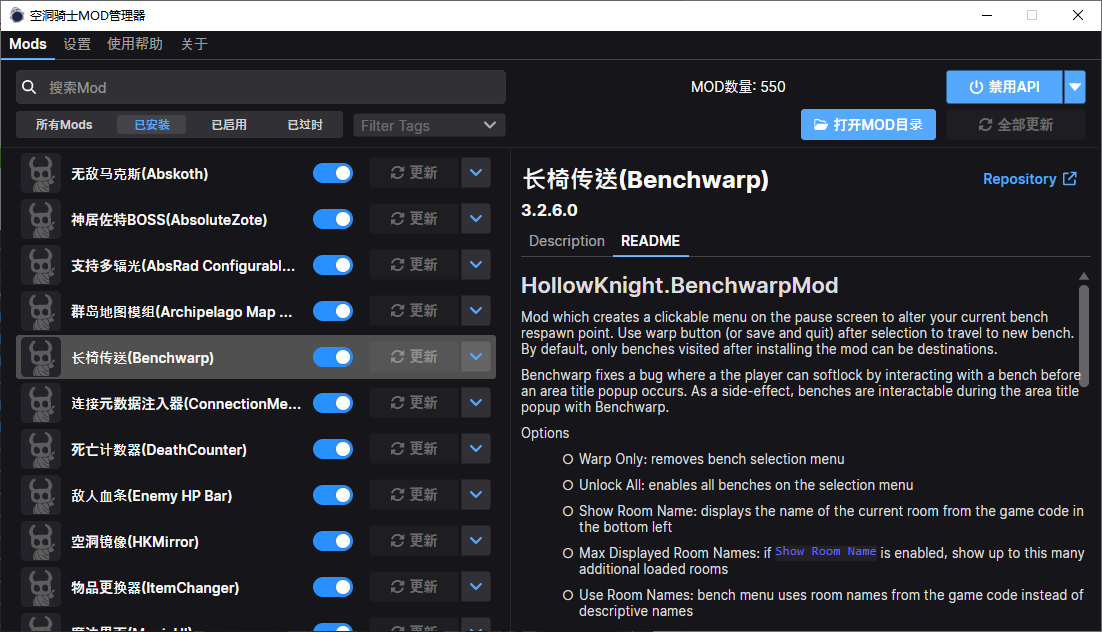
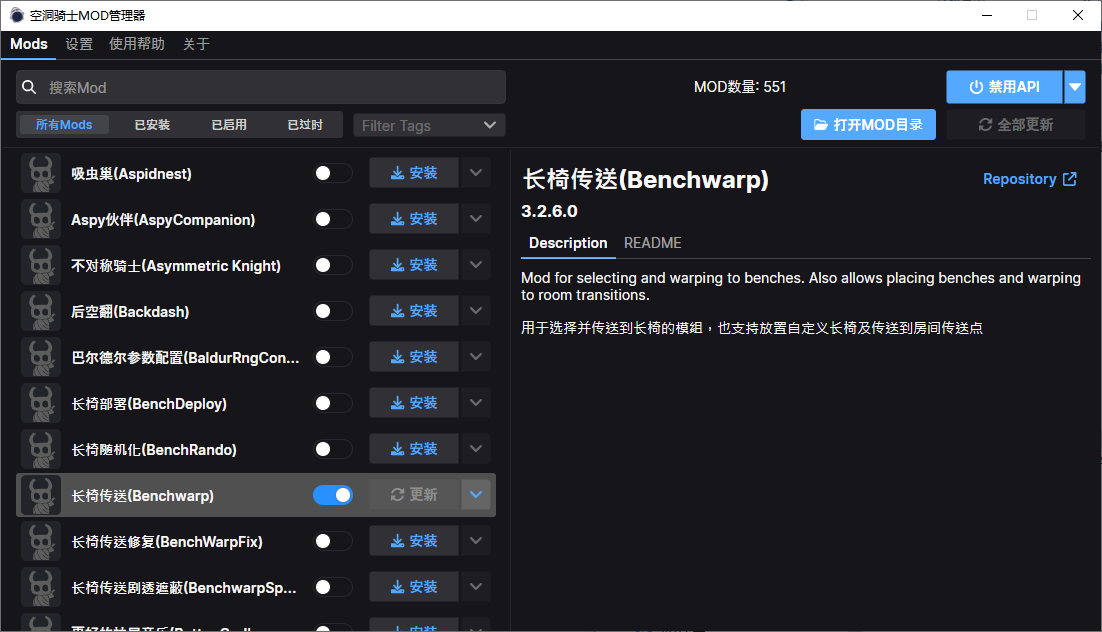
对MOD描述部分进行汉化

diff --git a/Scarab/ViewModels/MainWindowViewModel.cs b/Scarab/ViewModels/MainWindowViewModel.cs
@@ -15,6 +15,7 @@ using MessageBox.Avalonia.Enums;
 using MessageBox.Avalonia.Models;
 using Microsoft.Extensions.DependencyInjection;
 using DryIoc; // 这个文件需要引用
+using Scarab.ViewModels;
 
 namespace Scarab.ViewModels;
 
@@ -40,6 +41,12 @@ public partial class MainWindowViewModel : ViewModelBase, IActivatableViewModel
 
     [Notify] 
     private SettingsViewModel? _settingsPage;
+    
+    [Notify]
+    private HelpViewModel? _helpPage;
+    
+    [Notify]
+    private AboutViewModel? _aboutPage;
 
     private async Task Impl()
     {
@@ -131,10 +138,20 @@ public partial class MainWindowViewModel : ViewModelBase, IActivatableViewModel
         var chineseNames = await ModDatabase.FetchChineseNamesAsync(hc);
         con.RegisterInstance<IModSource>(mods);
 
-        con.RegisterDelegate<IModSource, IModDatabase>(src => new ModDatabase(src, content.ml, content.al, chineseNames));
+        con.RegisterDelegate<IModSource, IModDatabase>(src => 
+            new ModDatabase(
+                src, 
+                content.ml, 
+                content.al, 
+                chineseNames.ToDictionary(kv => kv.Key, kv => kv.Value.ChineseName), // 第4个参数: Dictionary<string, string>
+                chineseNames // 第5个参数: Dictionary<string, ModDatabase.ModChineseInfo>
+            )
+        );
         con.Register<IInstaller, Installer>();
         con.Register<ModPageViewModel>();
         con.Register<SettingsViewModel>();
+        con.Register<HelpViewModel>();
+        con.Register<AboutViewModel>();
 
         con.ValidateAndThrow();
         
@@ -153,6 +170,8 @@ public partial class MainWindowViewModel : ViewModelBase, IActivatableViewModel
         Log.Information("Displaying model");
         
         SettingsPage = con.GetRequiredService<SettingsViewModel>();
+        HelpPage = con.GetRequiredService<HelpViewModel>();
+        AboutPage = con.GetRequiredService<AboutViewModel>();
         Content = con.GetRequiredService<ModPageViewModel>();
     }
 

diff --git a/Scarab/ViewModels/HelpViewModel.cs b/Scarab/ViewModels/HelpViewModel.cs
@@ -1,0 +1,61 @@
+using ReactiveUI;
+using System.Reactive;
+using System.Diagnostics;
+using System.Reflection;
+
+namespace Scarab.ViewModels;
+
+public class HelpViewModel : ReactiveObject
+{
+    public string Version { get; } = GetVersion();
+    public string FileVersion { get; } = GetFileVersion();
+    public ReactiveCommand<Unit, Unit> OpenSource { get; }
+    public ReactiveCommand<Unit, Unit> OpenGitHub { get; }
+    public ReactiveCommand<Unit, Unit> OpenBilibili { get; }
+
+    public HelpViewModel()
+    {
+        OpenSource = ReactiveCommand.Create(() =>
+        {
+            // 打开GitHub源码页
+            Process.Start(new ProcessStartInfo
+            {
+                FileName = "https://github.com/hk-modding/modlinks",
+                UseShellExecute = true
+            });
+        });
+        
+        OpenGitHub = ReactiveCommand.Create(() =>
+        {
+            // 打开项目GitHub页面
+            Process.Start(new ProcessStartInfo
+            {
+                FileName = "https://github.com/huaisha1224/HollowKnightMODManager",
+                UseShellExecute = true
+            });
+        });
+        
+        OpenBilibili = ReactiveCommand.Create(() =>
+        {
+            // 打开B站怀沙2049页面
+            Process.Start(new ProcessStartInfo
+            {
+                FileName = "https://space.bilibili.com/37443749",
+                UseShellExecute = true
+            });
+        });
+    }
+
+    private static string GetVersion()
+    {
+        var assembly = Assembly.GetExecutingAssembly();
+        return assembly.GetName().Version?.ToString() ?? "Unknown";
+    }
+
+    private static string GetFileVersion()
+    {
+        var assembly = Assembly.GetExecutingAssembly();
+        var fileVersionAttr = assembly.GetCustomAttribute<AssemblyFileVersionAttribute>();
+        return fileVersionAttr?.Version ?? "Unknown";
+    }
+}
